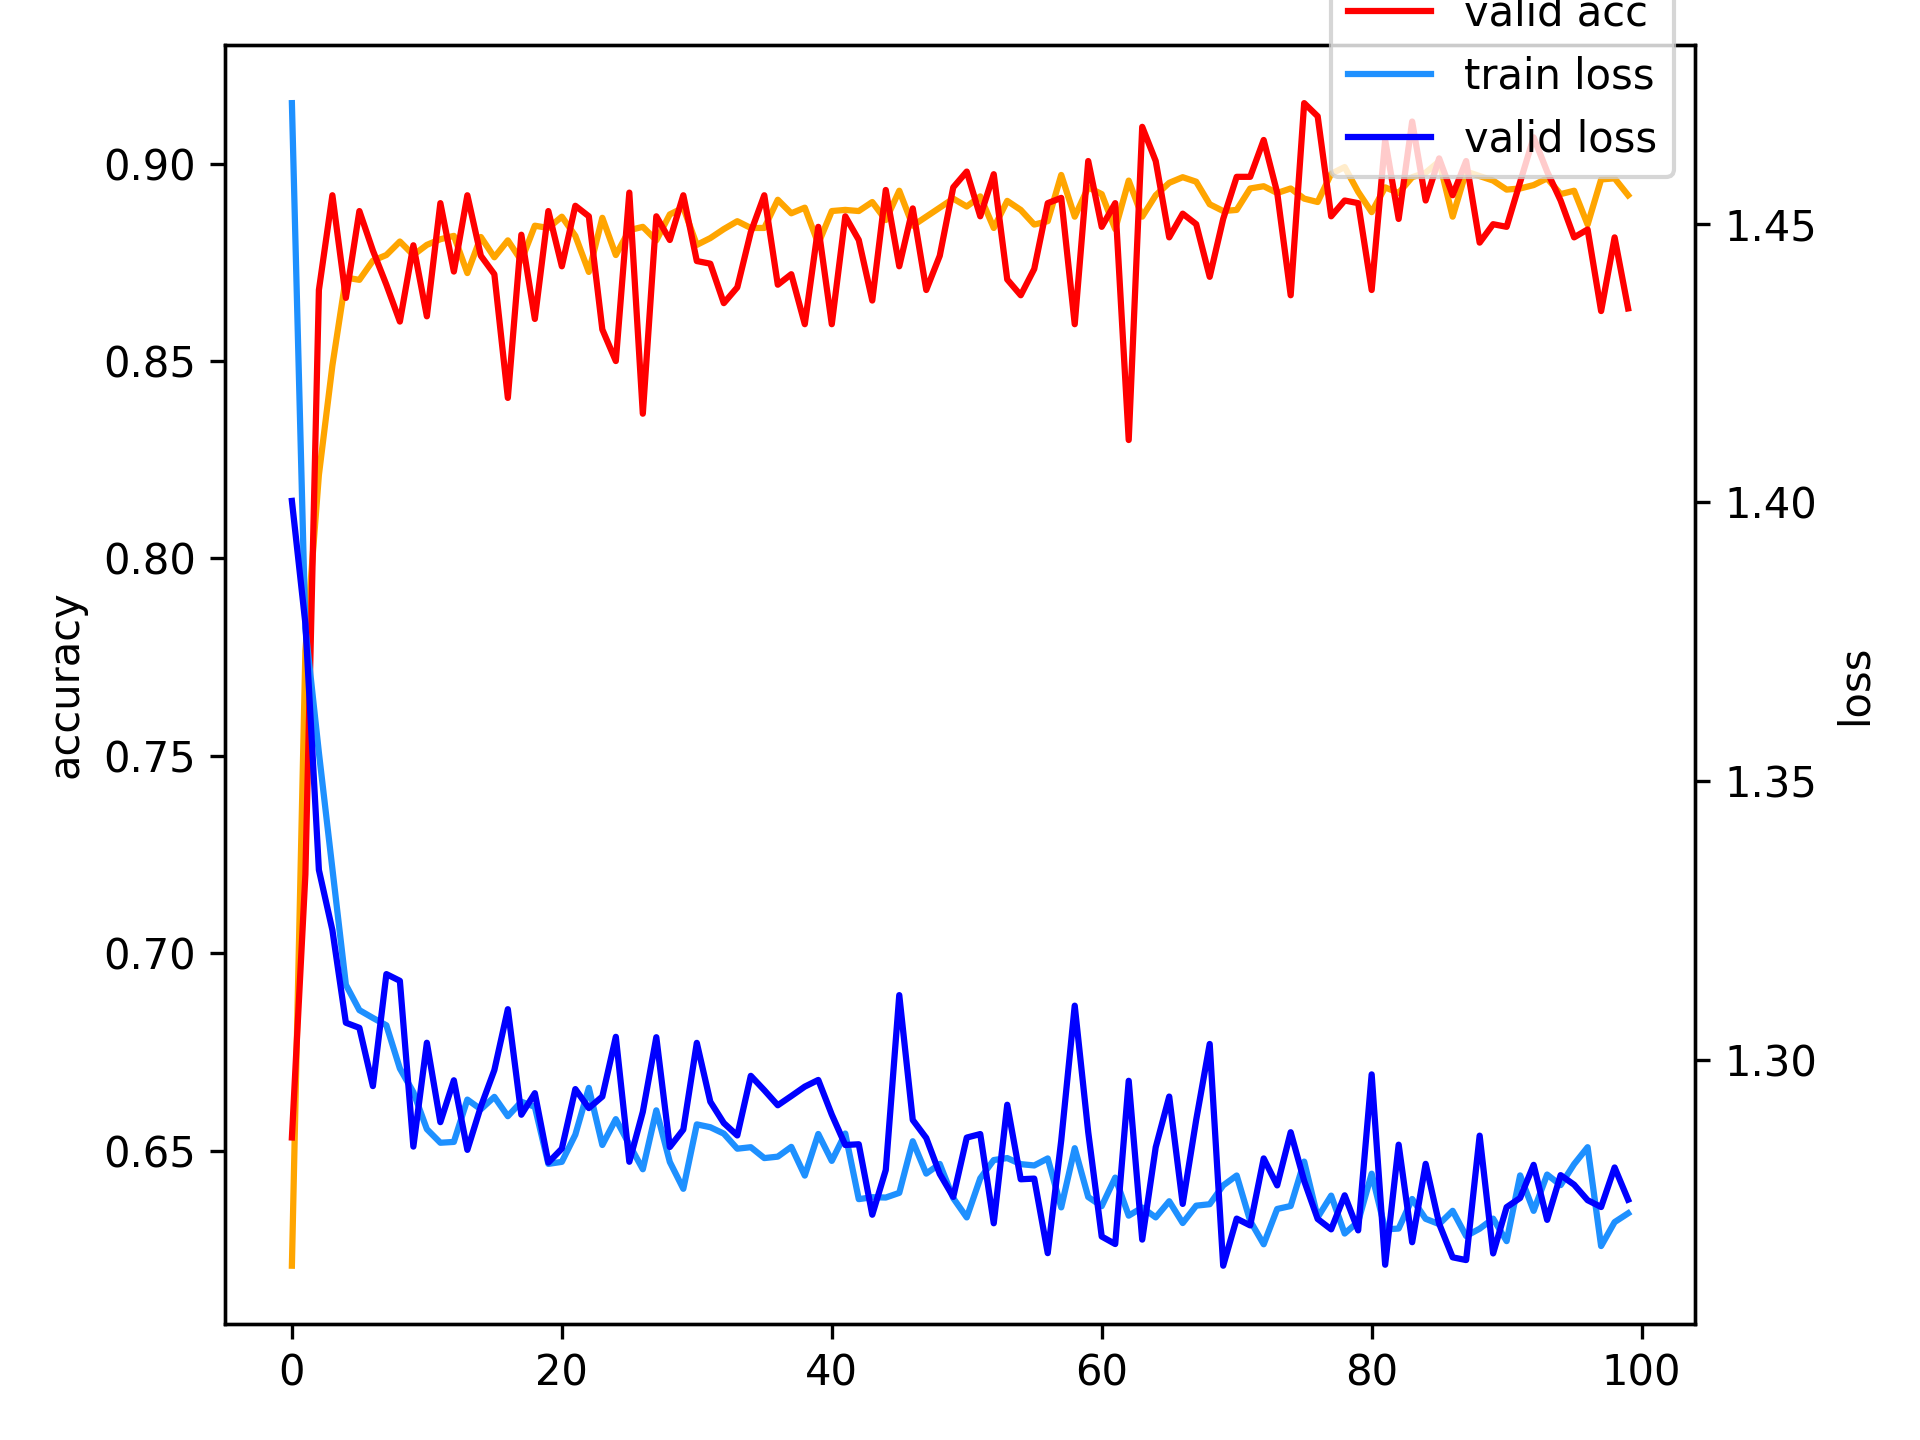
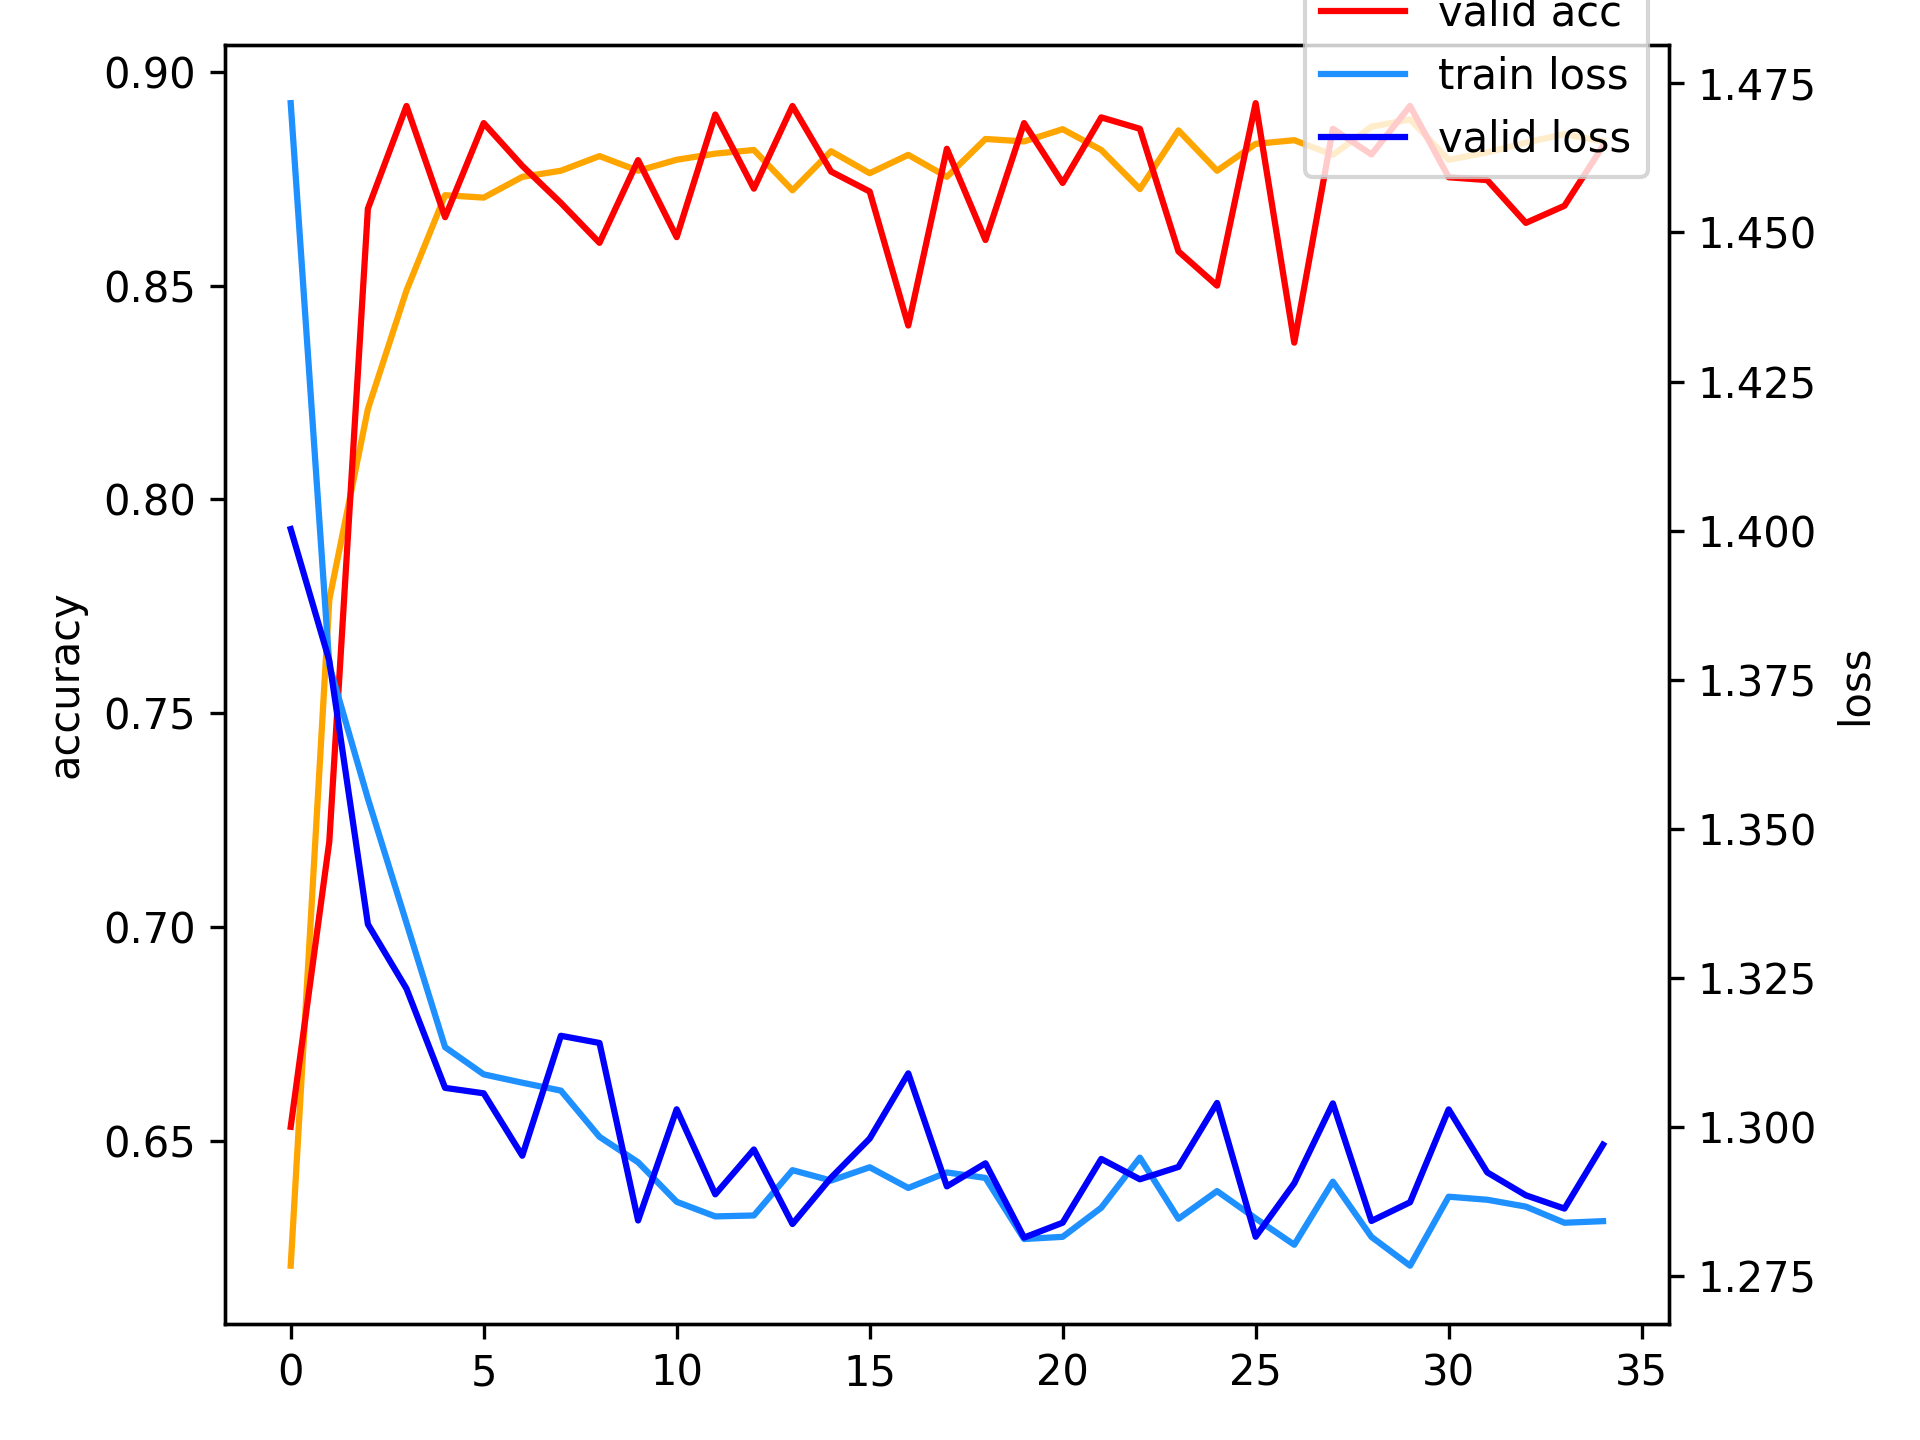
add submit-2

diff --git a/p1/test_watch.py b/p1/test_watch.py
@@ -1,0 +1,80 @@
+#!/usr/bin/env python3
+# Author: Armit
+# Create Time: 2024/07/26
+
+# 交互式测试检查，可以一次 data_load 多次 test_model
+
+import os
+import time
+import pickle
+import torch
+from torch.utils.data import DataLoader
+
+from model import QuantumNeuralNetwork
+from utils import MNISTDataset, cir_collate_fn, reshape_norm_padding, get_fidelity, get_acc
+from utils import QMNISTDataset, QMNISTDatasetIdea, DataHolder      # keep for unpickle
+
+import sys
+sys.path.insert(0, '.')
+from test import test_model
+# make linter happy :(
+try: from .test import test_model
+except ImportError: pass
+
+
+DEVICE = "cuda:0"
+OUTPUT_DIR = "output"
+BATCH_SIZE = 514    # test samples: 5139
+
+
+# 数据集
+with open(f'{OUTPUT_DIR}/test_dataset.pkl', 'rb') as file:
+    test_dataset = pickle.load(file)
+test_loader = DataLoader(test_dataset, batch_size=BATCH_SIZE, shuffle=False, collate_fn=cir_collate_fn)
+print('>> load pickle done')
+
+try:
+    while True:
+        cmd = input('>> input you ckpt (best/<epoch>/*.pt): ').strip()
+        if cmd == 'q': break
+
+        # 检查点
+        if cmd in ['b', 'best']:
+            ckpt_fp = f'{OUTPUT_DIR}/best_model.pt'
+        elif cmd.isdigit():
+            ckpt_fp = f'{OUTPUT_DIR}/model_epoch={cmd}.pt'
+        elif cmd.endswith('.pt'):
+            ckpt_fp = cmd if os.path.isfile(cmd) else f'{OUTPUT_DIR}/{cmd}'
+        if not os.path.isfile(ckpt_fp):
+            print(f'>> Error: invalid ckpt: {ckpt_fp}')
+            continue
+
+        try:
+            # 模型
+            with open(f'{OUTPUT_DIR}/model_config.pkl', 'rb') as file:
+                model_config = pickle.load(file)
+            model = QuantumNeuralNetwork(**model_config)
+            model.load_state_dict(torch.load(ckpt_fp, map_location=torch.device('cpu')))
+            print('>> load model done')
+
+            # 测试
+            t0 = time.time()
+            acc, fid, gates = test_model(model, test_loader, DEVICE)
+            torch.cuda.current_stream().synchronize()
+            t1 = time.time()
+            runtime = t1 - t0
+
+            print(f'test fid: {fid:.3f}')
+            print(f'test acc: {acc:.3f}')
+            print(f'test gates: {gates:.3f}')
+            print(f'runtime: {runtime:.3f}')
+
+            # 计算客观得分
+            gates_score = 1 - gates / 1000.0
+            runtime_score = 1 - runtime / 360.0
+            score = (2 * fid + acc + gates_score + 0.1 * runtime_score) * 100
+            print(f'客观得分: {score:.3f}')
+        except KeyboardInterrupt:
+            print('>> Abort by Ctrl+C')
+except KeyboardInterrupt:
+    pass

diff --git a/p1/train.py b/p1/train.py
@@ -103,6 +103,8 @@ def train_model(model:QuantumNeuralNetwork, optimizer:optim.Optimizer, train_loa
             json.dump(history, fh, indent=2, ensure_ascii=False)
 
         ''' Ckpt '''
+        torch.save(model.state_dict(), os.path.join(output_dir, f"model_epoch={epoch}.pt"))
+
         if valid_loss < best_valid_loss:
             print(f'>> New best found {best_valid_loss:.7f} => {valid_loss:.7f}')
             best_valid_loss = valid_loss
@@ -136,8 +138,8 @@ if __name__ == '__main__':
     # Settings 
     DEVICE = "cuda:0"
     BATCH_SIZE = 64
-    NUM_EPOCHS = 100
-    PATIENCE = 100      # if PATIENCE与NUM_EPOCHS相等，则不会触发early stopping
+    NUM_EPOCHS = 35
+    PATIENCE = NUM_EPOCHS   # if PATIENCE与NUM_EPOCHS相等，则不会触发early stopping
     OUTPUT_DIR = 'output'
 
     # Data

diff --git a/p1/model.py b/p1/model.py
@@ -105,7 +105,7 @@ class QuantumNeuralNetwork(nn.Module):
                     else:      self.var_circuit.cry(q, q + 1)
             self.var_circuit.u3layer()
 
-        if 'mera-updown-cu':        # 88.333%/92.667%
+        if 'mera-updown-cu':        # 88.333%/92.667%; gcnt=445, pcnt=1335
             for i in range(self.n_layer):
                 self.var_circuit.u3layer()
                 offset = int(i % 2 == 1)
@@ -136,7 +136,7 @@ class QuantumNeuralNetwork(nn.Module):
                         self.var_circuit.cnot(q, q + 1)
             self.var_circuit.u3layer()
 
-        if not 'swap-like':      # (参数量 4080 =_=||)
+        if not 'swap-like':         # pcnt=4080 =_=||
             for i in range(self.n_layer):
                 steps = [1, 3, 2] * 10
                 # up

diff --git a/p1/utils.py b/p1/utils.py
@@ -95,9 +95,9 @@ def get_fidelity(state_pred:Tensor, state_true:Tensor) -> Tensor:
     # [B, D=1024]
     #assert len(state_pred.shape) == len(state_true.shape) == 2
     #assert state_pred.shape[-1] == 1024
-    state_pred = state_pred.view(-1, 1024)
-    state_true = state_true.view(-1, 1024)
-    fidelity = torch.abs(torch.matmul(state_true.conj(), state_pred.T)) ** 2
+    state_pred = state_pred.view(-1, 1024).real
+    state_true = state_true.view(-1, 1024).real
+    fidelity = torch.matmul(state_true, state_pred.T) ** 2
     return fidelity.diag().mean()
 
 

diff --git a/p1/test.py b/p1/test.py
@@ -46,7 +46,7 @@ def test_model(model:QuantumNeuralNetwork, test_loader:DataLoader, device:torch.
     y_pred = torch.cat(y_pred, dim=0)
     y_true = torch.cat(y_true, dim=0)
 
-    y_pred = torch.argmax(torch.softmax(y_pred, dim=1), dim=1)
+    y_pred = torch.argmax(y_pred, dim=1)
     acc = get_acc(y_pred, y_true)
     fid = get_fidelity(state_pred, state_true)
 

diff --git a/NOTE.md b/NOTE.md
@@ -39,12 +39,33 @@
 我的最好成绩
 
 ```
-[1st submit]
+[1st solution] (AmpEnc)
+⚪ local
 test fid: 0.971
 test acc: 0.929
 test gates: 774.610
 runtime: 293.514
 客观得分: 311.429
+⚪ submit
+Fidelity: 0.971
+Accuracy: 0.929
+振幅编码线路门的个数: 774.609846273594
+运行时间: 287.7688663005829
+客观得分: 311.5888760951294 最高分数: 400
+
+[2nd solution] (VQC + snake + train(step=1000) ckpt-14)
+⚪ local
+test fid: 0.930
+test acc: 0.890
+test gates: 301.000
+runtime: 179.103
+客观得分: 350.036
+⚪ submit
+Fidelity: 0.930
+Accuracy: 0.890
+振幅编码线路门的个数: 301.0
+运行时间: 210.35138130187988
+客观得分: 349.1681521839566 最高分数: 400
 ```
 
 得分模板
@@ -63,9 +84,6 @@ runtime: 293.514
 > (0.89*2 + 0.92 + (1-250/1000) + (1-146/360)*0.1)) * 100
 350.94444444444
 
-[AmpEnc] (已提交)
-> (0.971*2 + 0.929 + (1-775/1000) + (1-300/360)*0.1) * 100
-311.26666666667
 [AmpEnc + snake_flatten + train(step=100)] (使用50个样本进行预估)
 > (0.91*2 + 0.929 + (1-500/1000) + (1-200/360)*0.1) * 100
 329.34444444444
@@ -74,9 +92,4 @@ runtime: 293.514
 348.50839622286
 > (0.8564713001251221*2 + 0.929 + (1-241/1000) + (1-146/360)*0.1) * 100
 346.03870446947
-[VQC + snake + train(step=1000)] (使用1个样本进行预估)
-> (0.9552421569824219*2 + 0.89 + (1-271/1000) + (1-146/360)*0.1) * 100
-358.89287584093
-> (0.9351020455360413*2 + 0.89 + (1-241/1000) + (1-146/360)*0.1) * 100
-357.86485355165
 ```
